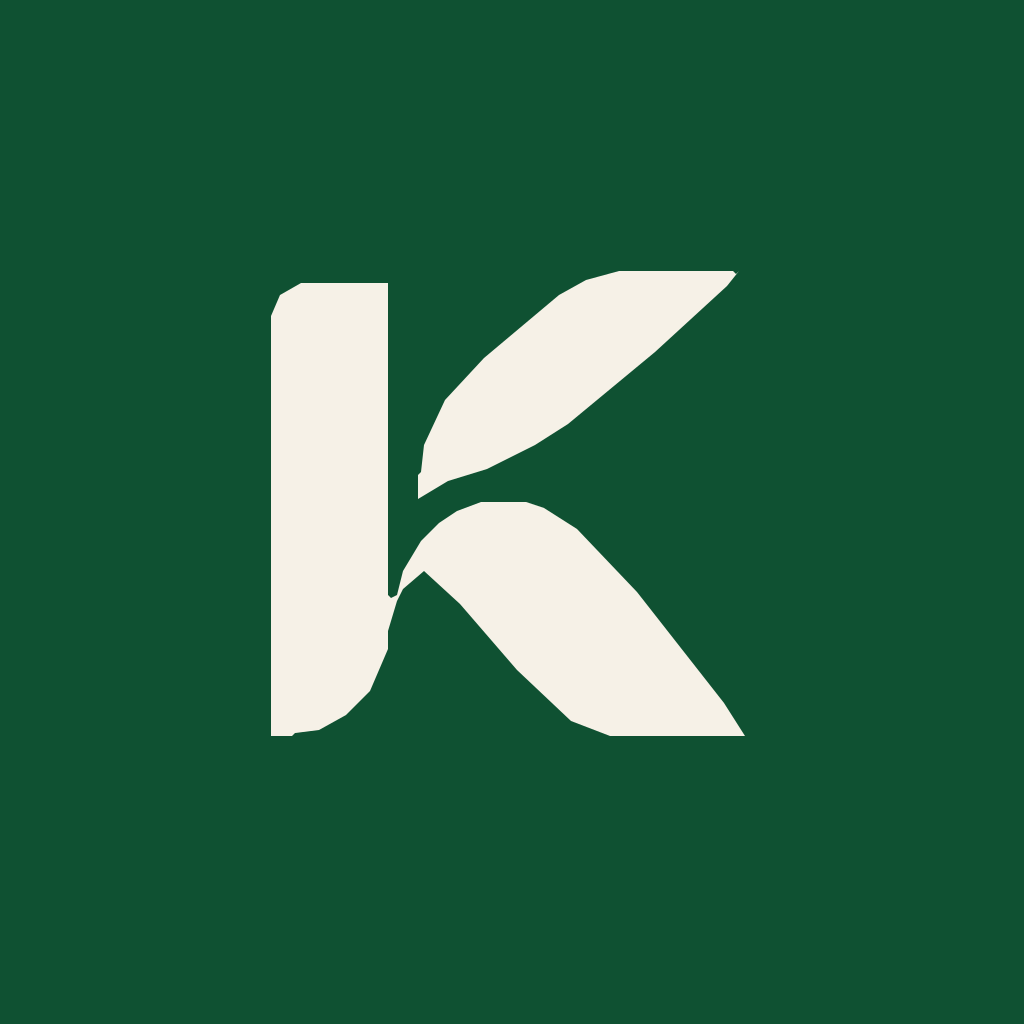
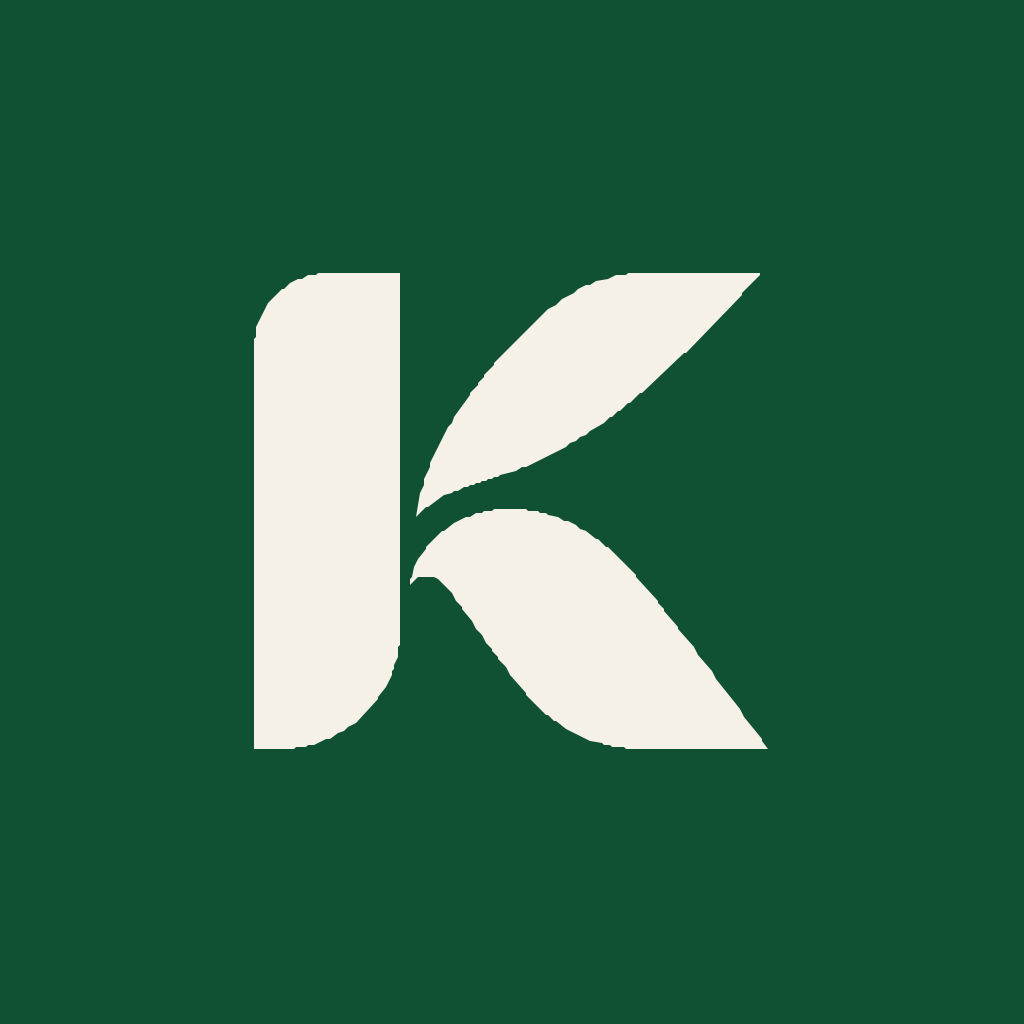
feat: replace brand symbol and wordmark with updated reference

diff --git a/docs/BRANDING.md b/docs/BRANDING.md
@@ -12,6 +12,6 @@ Applied from the supplied KAJORA Brand Identity Moodboard.
 
 Exact brand colours are exported in `src/theme/index.ts`; lighter supporting tints are used for cards, dividers and selected states. Forest actions use light text; gold actions use charcoal text for contrast. Error colours remain distinct.
 
-`assets/brand` contains SVG traces of the actual symbol and lettering in the supplied raster moodboard, plus PNG exports for React Native, Expo icons and splash. The stacked composition follows the supplied logo; the compact horizontal composition rearranges the same traced symbol and letters for navigation headers. These are traced assets, not original designer vector masters. An original SVG can replace them later without changing the UI.
+`assets/brand` contains SVG traces of the actual symbol and bold lettering in the updated logo reference (Screenshot 2026-10-14 at 22.09.08.png), plus PNG exports for React Native, Expo icons and splash. The stacked composition places the supplied symbol above its wordmark; the compact horizontal composition rearranges the same traced symbol and letters for navigation headers. These are traced assets, not original designer vector masters. An original SVG can replace them later without changing the UI.
 
 The icon uses an ivory symbol on forest green. Android adaptive icons have a transparent foreground with a forest background; web uses the matching favicon. Launcher and native splash updates require a new standalone/development build and do not replace the Expo Go launcher icon.
